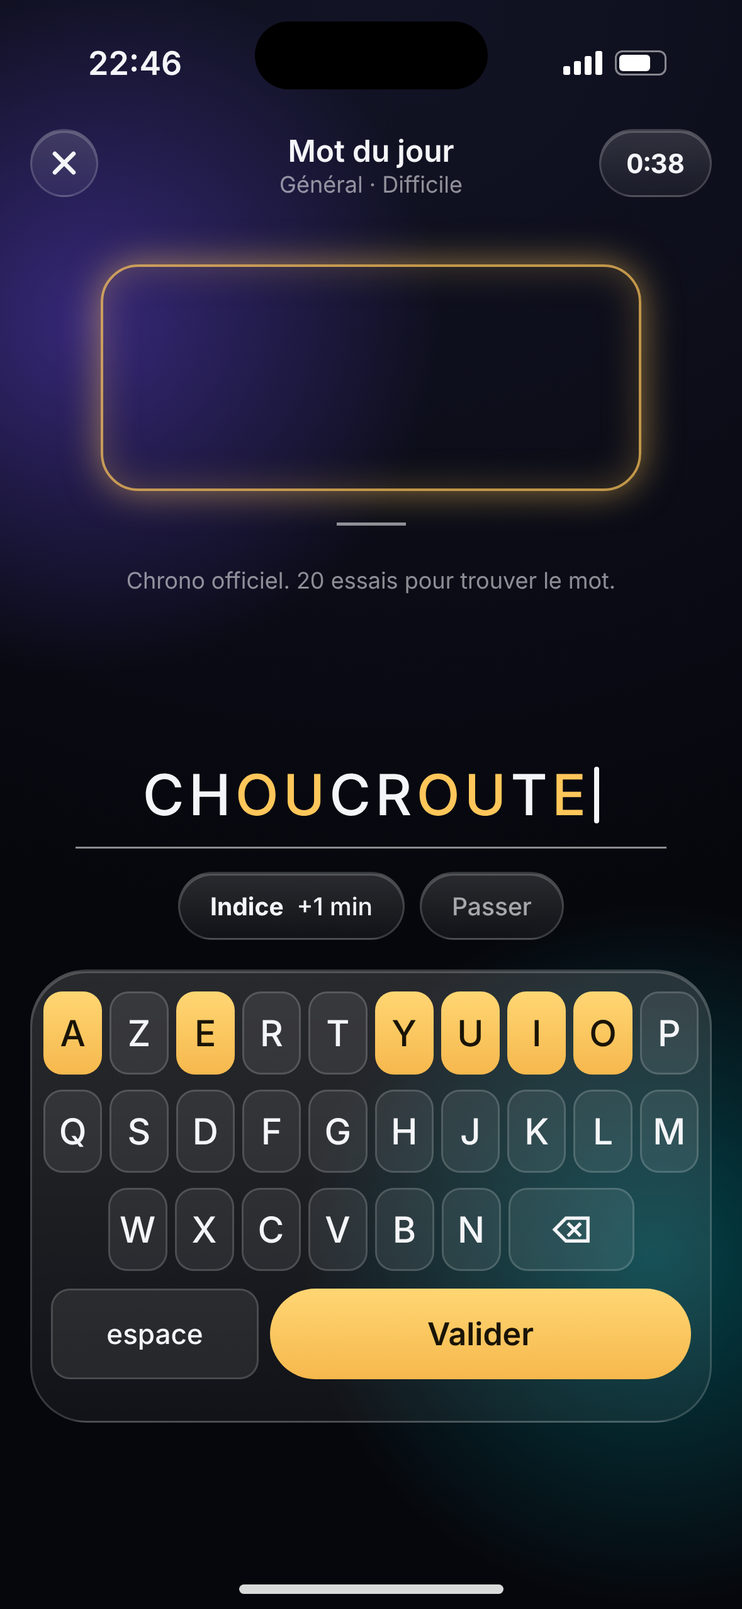
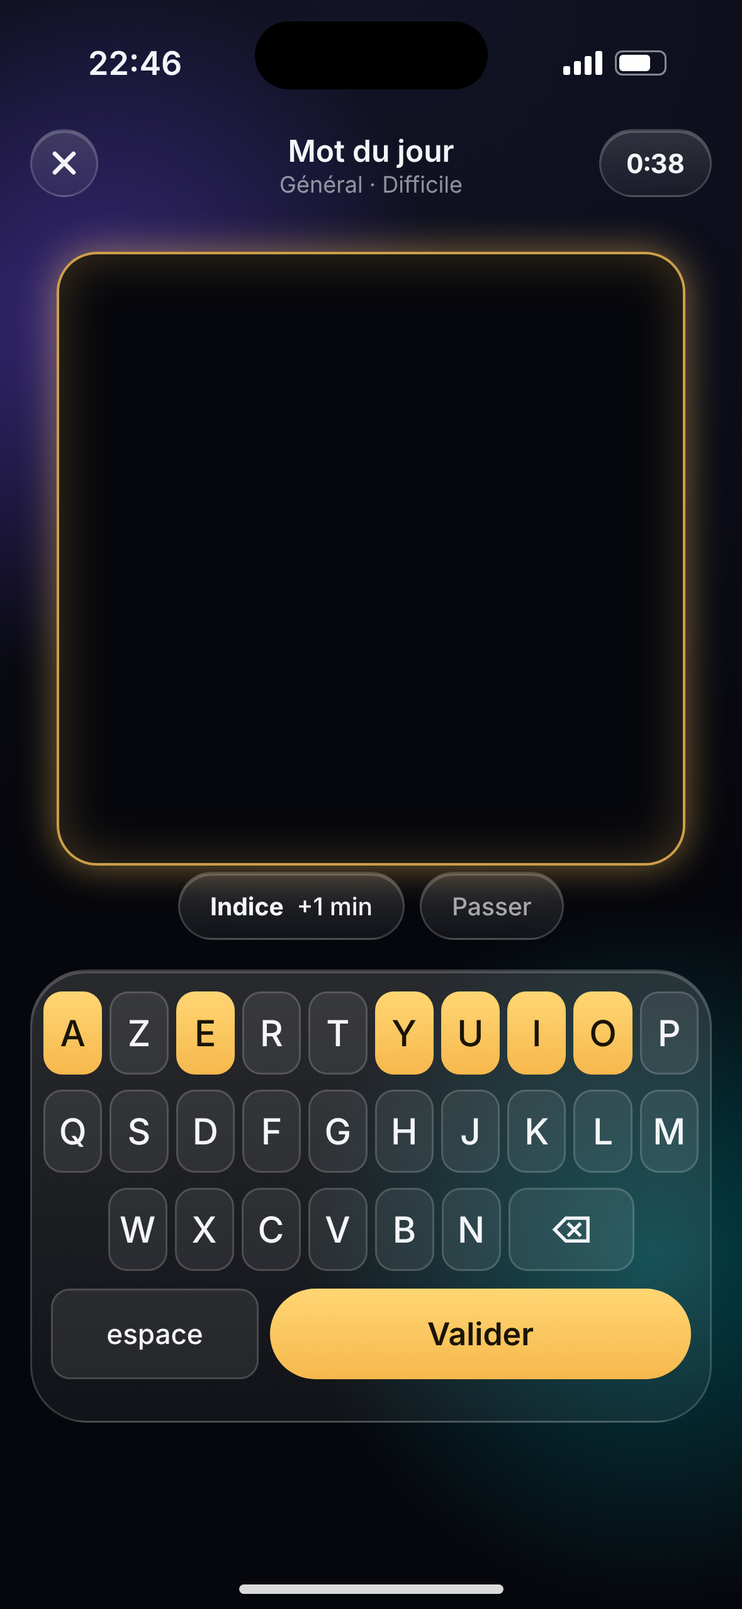
CNSNN promo v3: neon loop peels the word card off the screen
The thin neon goes round the word and the typed answer; when it closes
that region becomes the card and the answer's vowels rise into CHCRT.
The phone stands straight on the table at the end, and the end card
reads "Télécharger dans l'App Store".

Claude-Session: https://claude.ai/code/session_01BuuGTWXm9AdYd59K8Jkeg5

Changed region(s): [[0.0305, 0.1236, 0.9466, 0.5563]]

diff --git a/promo-3d/src/Promo.tsx b/promo-3d/src/Promo.tsx
@@ -29,9 +29,10 @@ const T = (s: number) => s * FPS;                            // seconds -> frame
 
 // ----------------------------------- timeline (seconds) -----------------------------------
 const WORD = 'CHOUCROUTE';
-const TYPE0 = 4.0, TSTEP = 0.2, VALID = 6.05;               // typing in the app
-const LIFT = 6.3, VOWELS = 7.3, FLIP = 9.0, BACKDOWN = 10.3, RESULT = 10.75;
-const SLOTS = 1.35, PATH = 2.15, ANSWER = 3.35;             // missing-vowel slots, neon to the answer field
+const TYPE0 = 2.55, TSTEP = 0.19, VALID = 4.55;             // typing in the app
+const LIFT = 6.0, VOWELS = 7.25, FLIP = 9.0, BACKDOWN = 10.3, RESULT = 10.75;
+const SLOTS = 1.25;                                          // gold slots where the vowels are missing
+const LOOP = 4.8, LOOPED = 5.95;                            // neon traces around the word + answer, then it pops out
 const MODES = 11.1, BOARD = 15.0, END = 17.0;
 export const DURATION = T(21.5);
 export { END };
@@ -41,37 +42,40 @@ function screenTexture(t: number) {
   if (t >= RESULT) return 'game_result.png';
   if (t >= LIFT) return 'game_lifted.png';
   if (t >= VALID - 0.05) return t < VALID + 0.2 ? 'game_valid.png' : 'game_10.png';
-  if (t < TYPE0) return t >= ANSWER ? 'game_answer.png' : 'game_00.png';
+  if (t < TYPE0) return 'game_00.png';
   const n = WORD.split('').filter((_, i) => t >= TYPE0 + i * TSTEP).length;
   return `game_${String(n).padStart(2, '0')}.png`;
 }
 /** The gold slots screen fades over the game screen, then away once the neon reaches the answer field. */
-const slotsMix = (t: number) => ease(prog(t, SLOTS, SLOTS + 0.35)) * (1 - ease(prog(t, ANSWER - 0.1, ANSWER + 0.3)));
+const slotsMix = (t: number) => ease(prog(t, SLOTS, SLOTS + 0.35)) * (1 - ease(prog(t, TYPE0 - 0.3, TYPE0 - 0.05)));
 
 // ----------------------------------- glyph metrics -----------------------------------
 // Letter advances of Instrument Serif, measured in the page once the font is loaded (fraction of font size).
 const ADV: Record<string, number> = {};
+const ADV_INTER: Record<string, number> = {};
 let advReady = false;
 function useAdvances() {
   const [, set] = useState(0);
   useLayoutEffect(() => {
     if (advReady) return;
     const done = hold('advances');
-    const face = new FontFace('IS', `url(${staticFile('fonts/InstrumentSerif-Regular.ttf')})`);
-    face.load().then((f) => {
-      (document.fonts as any).add(f);
+    const faces = [new FontFace('IS', `url(${staticFile('fonts/InstrumentSerif-Regular.ttf')})`), new FontFace('IM', `url(${staticFile('fonts/Inter-Medium.woff')})`)];
+    Promise.all(faces.map((f) => f.load())).then((loaded) => {
+      loaded.forEach((f) => (document.fonts as any).add(f));
       const ctx = document.createElement('canvas').getContext('2d')!;
       ctx.font = '100px IS';
       for (const c of 'ABCDEFGHIJKLMNOPQRSTUVWXYZ') ADV[c] = ctx.measureText(c).width / 100;
+      ctx.font = '100px IM';
+      for (const c of 'ABCDEFGHIJKLMNOPQRSTUVWXYZ') ADV_INTER[c] = ctx.measureText(c).width / 100;
       advReady = true; set(1); done();
     });
   }, []);
 }
 /** x of each letter's centre: vowels take p (0..1) of their width, so consonants close up when vowels are out. */
-function layout(word: string, size: number, spacing: number, vowelP: (i: number) => number) {
+function layout(word: string, size: number, spacing: number, vowelP: (i: number) => number, adv: Record<string, number> = ADV) {
   const isV = (c: string) => 'AEIOUY'.includes(c);
   let vi = 0;
-  const widths = word.split('').map((c) => (ADV[c] ?? 0.6) * size * (isV(c) ? vowelP(vi++) : 1) + spacing * (isV(c) ? vowelP(vi - 1) : 1));
+  const widths = word.split('').map((c) => (adv[c] ?? 0.6) * size * (isV(c) ? vowelP(vi++) : 1) + spacing * (isV(c) ? vowelP(vi - 1) : 1));
   const total = widths.reduce((a, b) => a + b, 0);
   let x = -total / 2;
   return widths.map((w) => { const c = x + w / 2; x += w; return c; });
@@ -157,60 +161,71 @@ const Neon: React.FC<{ curve: THREE.Curve<THREE.Vector3>; p: number; fade?: numb
   );
 };
 
-/** The word card (ShareCard) that comes out of the screen: CHCRT, vowels flying in, flip to the result. */
+/** The word + answer region of the screen peels off as a card: the vowels of the typed answer rise into CHCRT,
+ * then the card flips to the result and goes back into the screen. */
+const CW = (999 / TX) * SW, CH = (975 / TX) * SW;            // the screen region px 90..1089 x 400..1375
+const REGION = sp(589.5, 887.5);
 const WordCard: React.FC<{ t: number }> = ({ t }) => {
-  const CW = 0.64, CH = 0.48;
   const front = tex('card_front.png'), back = tex('card_back.png');
-  const face = useMemo(() => roundedPlane(CW, CH, 0.048), []);
+  const face = useMemo(() => roundedPlane(CW, CH, 0.034), []);
   const slab = useMemo(() => {
-    const g = new THREE.ExtrudeGeometry(roundedRectShape(CW, CH, 0.048), { depth: 0.016, bevelEnabled: false, curveSegments: 24 });
-    g.translate(0, 0, -0.008); return g;
+    const g = new THREE.ExtrudeGeometry(roundedRectShape(CW, CH, 0.034), { depth: 0.012, bevelEnabled: false, curveSegments: 24 });
+    g.translate(0, 0, -0.006); return g;
   }, []);
-  const edge = useMemo(() => roundedRectCurve(CW - 0.006, CH - 0.006, 0.045, 0.0095), []);
-  // Out of the screen and back
+  const edge = useMemo(() => roundedRectCurve(CW - 0.004, CH - 0.004, 0.032, 0.0072), []);
   const up = ease(prog(t, LIFT, LIFT + 1.0)), down = io(prog(t, BACKDOWN, RESULT));
   const k = up * (1 - down);
-  const start = sp(590, 600, 0.004);
-  const pos = start.clone().lerp(new THREE.Vector3(0, 0.5, -0.12), k);
-  pos.y += Math.sin(t * 2.1) * 0.012 * k;                                  // gentle float
+  const pos = REGION.clone().setY(TOP + 0.0035).lerp(new THREE.Vector3(0, 0.5, -0.12), k);
+  pos.y += Math.sin(t * 2.1) * 0.01 * k;
   const flip = io(prog(t, FLIP, FLIP + 0.55)) * Math.PI * (1 - io(prog(t, BACKDOWN, BACKDOWN + 0.35)));
-  const rotX = lerp(-Math.PI / 2, -0.12, k), rotY = flip + Math.sin(t * 1.3) * 0.05 * k;
-  const scale = lerp(0.75, 1, k);
+  const rotX = lerp(-Math.PI / 2, -0.1, k), rotY = flip + Math.sin(t * 1.3) * 0.04 * k;
   const visible = t >= LIFT && t < RESULT + 0.02;
-  // Letters: consonants close up until the vowels arrive one by one
-  const vp = (i: number) => spring(t - (VOWELS + i * 0.26), 0.42, 0.62);
-  const size = 0.092, spacing = 0.004;
-  const xs = layout(WORD, size, spacing, vp);
-  const glowPulse = ease(prog(t, VOWELS + 1.35, VOWELS + 1.6)) * (1 - prog(t, VOWELS + 1.6, FLIP));
+  // Local positions mirror the screen: word centre at 20.7% of the region, answer at 88.7% (local y = (0.5 - rel) * CH)
+  const vp = (i: number) => spring(t - (VOWELS + i * 0.26), 0.45, 0.66);
+  const all = clamp((t - VOWELS) / (4 * 0.26 + 0.5));
+  const wordSize = lerp(0.152, 0.083, ease(all)), wordY = lerp((0.5 - 0.207) * CH, 0.11, ease(all));
+  const xs = layout(WORD, wordSize, 0.003, vp);
+  const ansSize = 0.051, ansY = (0.5 - 0.887) * CH;
+  const xa = layout(WORD, ansSize, 0.007, () => 1, ADV_INTER);
+  const glowPulse = ease(prog(t, VOWELS + 1.4, VOWELS + 1.65)) * (1 - prog(t, VOWELS + 1.65, FLIP));
   let vi = 0;
   return (
-    <group position={pos} rotation={[rotX, rotY, 0]} scale={scale} visible={visible}>
+    <group position={pos} rotation={[rotX, rotY, 0]} visible={visible}>
       <mesh geometry={slab} castShadow><meshPhysicalMaterial color="#0a0b12" roughness={0.35} clearcoat={0.6} /></mesh>
-      <mesh geometry={face} position-z={0.0085}><meshBasicMaterial map={front} toneMapped={false} transparent /></mesh>
-      <mesh geometry={face} position-z={-0.0085} rotation-y={Math.PI}><meshBasicMaterial map={back} toneMapped={false} transparent /></mesh>
-      <Neon curve={edge} p={1} fade={0.3 + 0.7 * up + glowPulse} radius={0.0016} light={0.2} power={2.2} />
+      <mesh geometry={face} position-z={0.0062}><meshBasicMaterial map={front} toneMapped={false} transparent /></mesh>
+      <mesh geometry={face} position-z={-0.0062} rotation-y={Math.PI}><meshBasicMaterial map={back} toneMapped={false} transparent /></mesh>
+      <Neon curve={edge} p={1} fade={0.25 + 0.75 * up + glowPulse} radius={0.0013} light={0.15} power={2.0} />
+      {/* answer row: consonants fade as the vowels leave it */}
+      {WORD.split('').map((c, i) => 'AEIOUY'.includes(c) ? null : (
+        <SyncText key={'a' + i} font={staticFile('fonts/Inter-Medium.woff')} fontSize={ansSize} anchorX="center" anchorY="middle"
+          position={[xa[i], ansY, 0.0075]} fillOpacity={1 - ease(all)}>
+          {c}
+          <meshBasicMaterial color={new THREE.Color(0.96, 0.96, 0.98)} toneMapped={false} transparent opacity={1 - ease(all)} />
+        </SyncText>
+      ))}
+      {/* small burst where each vowel lands */}
       {WORD.split('').map((c, i) => {
         if (!'AEIOUY'.includes(c)) return null;
         const j = WORD.slice(0, i).split('').filter((x) => 'AEIOUY'.includes(x)).length;
-        const land = VOWELS + j * 0.26 + 0.24, r = prog(t, land, land + 0.32);
+        const land = VOWELS + j * 0.26 + 0.3, r = prog(t, land, land + 0.32);
         return (
-          <mesh key={'spark' + i} position={[xs[i], 0, 0.013]} visible={r > 0 && r < 1} scale={0.01 + 0.03 * ease(r)}>
+          <mesh key={'spark' + i} position={[xs[i], wordY, 0.008]} visible={r > 0 && r < 1} scale={0.01 + 0.028 * ease(r)}>
             <ringGeometry args={[0.86, 1, 48]} />
             <meshBasicMaterial color={GOLD_TEXT.clone().multiplyScalar(1.6 * (1 - r))} toneMapped={false} transparent opacity={1 - r} depthWrite={false} />
           </mesh>
         );
       })}
+      {/* the word: consonants stay, vowels travel up from the answer row into their slots */}
       {WORD.split('').map((c, i) => {
         const vowel = 'AEIOUY'.includes(c);
         const p = vowel ? vp(vi++) : 1;
-        // a vowel flies in from below-front along an arc, then settles into its slot
-        const from = new THREE.Vector3(xs[i] * 0.4 + (i % 2 ? 0.25 : -0.25), -0.55, 0.35);
-        const at = new THREE.Vector3(xs[i], 0.0, 0.012);
         const q = clamp(p);
-        const fly = vowel ? from.clone().lerp(at, ease(q)).add(new THREE.Vector3(0, Math.sin(q * Math.PI) * 0.12, 0)) : at;
+        const from = new THREE.Vector3(xa[i], ansY, 0.0075), at = new THREE.Vector3(xs[i], wordY, 0.0075);
+        const fly = vowel ? from.clone().lerp(at, ease(q)).add(new THREE.Vector3(0, 0, Math.sin(q * Math.PI) * 0.05)) : at;
+        const sizeScale = vowel ? lerp(ansSize / wordSize, 1, ease(q)) : 1;
         return (
-          <SyncText key={i} font={staticFile('fonts/InstrumentSerif-Regular.ttf')} fontSize={size} anchorX="center" anchorY="middle"
-            position={fly} scale={vowel ? lerp(0.4, 1, q) : 1} visible={!vowel || t >= VOWELS + (vi - 1) * 0.26 - 0.05}>
+          <SyncText key={i} font={staticFile(vowel && q < 0.5 ? 'fonts/Inter-Medium.woff' : 'fonts/InstrumentSerif-Regular.ttf')} fontSize={wordSize} anchorX="center" anchorY="middle"
+            position={fly} scale={sizeScale}>
             {c}
             <meshBasicMaterial color={vowel ? GOLD_TEXT.clone().multiplyScalar(1.0 + 0.35 * glowPulse) : new THREE.Color(0.97, 0.97, 0.99)} toneMapped={false} />
           </SyncText>
@@ -228,8 +243,8 @@ const ModeCard: React.FC<{ t: number; t0: number; name: string; spot: THREE.Vect
   const edge = useMemo(() => roundedRectCurve(0.454, 0.569, 0.045, 0.0085), []);
   const k = ease(prog(t, t0, t0 + 0.8));
   const away = io(prog(t, BOARD - 0.5, BOARD + 0.1));
-  const pos = sp(590, 1300, 0.004).lerp(spot, k).add(new THREE.Vector3(0, away * 1.6, 0));
-  pos.z += 0;
+  const from = sp(590 + (spot.x / SW) * TX * 0.75, 1500, 0.004);
+  const pos = from.lerp(spot, k).add(new THREE.Vector3(0, away * 1.6, 0));
   pos.y += Math.sin(t * 2 + t0) * 0.01 * k;
   return (
     <group position={pos} rotation={[lerp(-Math.PI / 2, -0.08, k), turn * k, 0]} scale={lerp(0.5, 1, k)} visible={t >= t0 && away < 1}>
@@ -251,7 +266,7 @@ const Logo: React.FC<{ t: number }> = ({ t }) => {
   const tag = ease(prog(t, END + 2.5, END + 2.9));
   let vi = 0;
   return (
-    <group position={[0, 2.22, -0.62]} visible={t >= END + 0.85}>
+    <group position={[0, 1.94, -0.45]} visible={t >= END + 0.85}>
       {word.split('').map((c, i) => {
         const vowel = 'AEIOU'.includes(c); const p = vowel ? vp(vi++) : 1;
         const shown = vowel ? clamp(p) : clamp((sweep - (xs[i] + 0.9) / 1.8) * 6 + 0.5);
@@ -264,7 +279,7 @@ const Logo: React.FC<{ t: number }> = ({ t }) => {
         );
       })}
       <Neon curve={base} p={sweep} fade={1 - 0.8 * prog(t, END + 1.6, END + 2.3)} radius={0.0045} power={3} light={0.4} />
-      <SyncText font={staticFile('fonts/InstrumentSerif-Italic.ttf')} fontSize={0.09} anchorX="center" anchorY="middle" position={[0, -0.26, 0]} fillOpacity={tag}>
+      <SyncText font={staticFile('fonts/InstrumentSerif-Italic.ttf')} fontSize={0.09} anchorX="center" anchorY="middle" position={[0, -0.22, 0]} fillOpacity={tag}>
         Le mot du jour. Sans ses voyelles.
         <meshBasicMaterial color={new THREE.Color(0.95, 0.95, 0.97)} toneMapped={false} transparent opacity={tag} />
       </SyncText>
@@ -321,13 +336,14 @@ const Contact: React.FC<{ opacity: number }> = ({ opacity }) => {
 // Each key: [seconds, camera position, look-at]. Positions are in world space (phone at the origin).
 const CAM: [number, number[], number[], CurveName?][] = [
   [0.0, [-0.5, 1.0, 0.9], [-0.03, 0.08, -0.42]],
-  [1.2, [-0.12, 0.78, 0.62], [0.0, 0.08, -0.42], 'snap'],          // push in on CHCRT
-  [1.7, [0.0, 1.32, 0.55], [0.0, 0.08, -0.4], 'snap'],              // rise to see the gold slots
-  [2.4, [0.04, 1.25, 0.6], [0.0, 0.08, -0.36], 'glide'],
-  [3.5, [0.2, 0.62, 0.82], [0.0, 0.08, -0.05], 'snap'],            // follow the neon down to the answer
-  [4.4, [-0.12, 0.4, 0.98], [0.0, 0.08, 0.26], 'snap'],            // drop to the keyboard
-  [6.1, [0.1, 0.44, 0.98], [0.0, 0.08, 0.12], 'glide'],
-  [6.9, [0.5, 0.8, 2.05], [0.0, 0.5, -0.12], 'snap'],              // pull back as the card rises
+  [1.1, [-0.12, 0.78, 0.62], [0.0, 0.08, -0.42], 'snap'],          // push in on CHCRT
+  [1.6, [0.0, 1.32, 0.55], [0.0, 0.08, -0.4], 'snap'],              // rise: the gold slots light up
+  [2.3, [0.04, 1.25, 0.6], [0.0, 0.08, -0.36], 'glide'],
+  [2.85, [-0.12, 0.42, 0.98], [0.0, 0.08, 0.2], 'snap'],            // drop to the keyboard, typing
+  [4.5, [0.1, 0.46, 0.98], [0.0, 0.08, 0.1], 'glide'],
+  [5.0, [0.04, 1.85, 0.55], [0.0, 0.08, -0.2], 'snap'],             // top view: the neon goes round word + answer
+  [5.9, [0.0, 1.8, 0.62], [0.0, 0.08, -0.21], 'glide'],
+  [6.9, [0.5, 0.8, 2.05], [0.0, 0.5, -0.12], 'soft'],              // pull back as the card rises
   [8.8, [0.16, 0.66, 1.95], [0.0, 0.5, -0.12], 'glide'],
   [9.6, [0.05, 0.6, 1.62], [0.0, 0.5, -0.12], 'snap'],             // push in on the flip
   [10.3, [0.03, 0.72, 1.8], [0.0, 0.4, -0.15], 'soft'],
@@ -337,15 +353,15 @@ const CAM: [number, number[], number[], CurveName?][] = [
   [14.3, [0.62, 0.8, 1.75], [0.5, 0.48, -0.25], 'snap'],
   [15.3, [0.05, 1.25, 0.85], [0.0, 0.09, -0.25], 'snap'],
   [16.8, [0.1, 0.9, 0.6], [0.0, 0.09, -0.33], 'glide'],
-  [17.7, [0.0, 1.05, 5.6], [0.0, 0.82, -0.5], 'snap'],
-  [21.5, [0.0, 1.0, 5.25], [0.0, 0.8, -0.5], 'glide'],
+  [17.7, [0.0, 0.62, 5.7], [0.0, 0.44, -0.25], 'snap'],
+  [21.5, [0.0, 0.6, 5.4], [0.0, 0.44, -0.25], 'glide'],
 ];
 // Focus point for the depth of field
 const FOCUS: [number, number[]][] = [
-  [0.0, [0.0, 0.09, -0.41]], [1.7, [0.0, 0.09, -0.4]], [2.4, [0.0, 0.09, -0.36]], [3.5, [0.0, 0.09, -0.05]], [4.4, [0.0, 0.09, 0.3]], [6.1, [0.0, 0.09, 0.05]],
-  [6.5, [0.0, 0.45, -0.12]], [7.0, [0.0, 0.5, -0.12]], [10.3, [0.0, 0.45, -0.14]], [10.8, [0.0, 0.09, 0.1]],
+  [0.0, [0.0, 0.09, -0.41]], [1.6, [0.0, 0.09, -0.4]], [2.3, [0.0, 0.09, -0.36]], [2.85, [0.0, 0.09, 0.28]], [4.5, [0.0, 0.09, 0.1]],
+  [5.0, [0.0, 0.09, -0.2]], [5.9, [0.0, 0.09, -0.21]], [6.6, [0.0, 0.4, -0.14]], [7.0, [0.0, 0.5, -0.12]], [10.3, [0.0, 0.45, -0.14]], [10.8, [0.0, 0.09, 0.1]],
   [11.8, [-0.56, 0.48, -0.25]], [13.0, [0.0, 0.48, -0.28]], [14.3, [0.5, 0.48, -0.25]],
-  [15.3, [0.0, 0.09, -0.25]], [16.8, [0.0, 0.09, -0.33]], [17.7, [0.0, 1.0, -0.45]], [21.5, [0.0, 1.05, -0.5]],
+  [15.3, [0.0, 0.09, -0.25]], [16.8, [0.0, 0.09, -0.33]], [17.7, [0.0, 0.85, -0.25]], [21.5, [0.0, 0.85, -0.25]],
 ];
 
 const Rig: React.FC<{ t: number }> = ({ t }) => {
@@ -376,11 +392,12 @@ const Scene: React.FC = () => {
   useAdvances();
   useRoomEnvironment();
   // Neon paths
-  // From the gold slots (where the vowels are missing), down to the answer field, then along its line
-  const underline = useMemo(() => new THREE.CatmullRomCurve3([
-    sp(330, 700, 0.005), sp(530, 708, 0.005), sp(760, 700, 0.005), sp(945, 696, 0.005),
-    sp(1080, 860, 0.008), sp(1040, 1180, 0.008), sp(1050, 1352, 0.005), sp(590, 1356, 0.005), sp(130, 1352, 0.005),
-  ], false, 'centripetal'), []);
+  // A thin loop around the word + answer region (the card about to pop out), starting top-left
+  const regionLoop = useMemo(() => {
+    const c = roundedRectCurve(CW + 0.016, CH + 0.016, 0.04, 0);
+    const pts = c.getSpacedPoints(200).map((v) => new THREE.Vector3(REGION.x + v.x, TOP + 0.005, REGION.z - v.y));
+    return new THREE.CatmullRomCurve3(pts, true);
+  }, []);
   const boardLoop = useMemo(() => {
     const c = roundedRectCurve(0.62, 0.105, 0.05, 0);
     const pts = c.getSpacedPoints(160).map((v) => new THREE.Vector3(v.x, TOP + 0.006, -v.y + sp(0, 700).z));
@@ -388,8 +405,9 @@ const Scene: React.FC = () => {
   }, []);
   // Phone stands up at the end, pivoting on its bottom edge
   const stand = io(prog(t, END, END + 0.9));
-  const phonePos = new THREE.Vector3(0, lerp(0, PH / 2 - 0.05, stand), lerp(0, -0.2, stand));
-  const phoneRot = lerp(0, Math.PI / 2 - 0.12, stand);
+  // pivot so the bottom edge stays on the table: centre rises to half the height, never below the surface
+  const phoneRot = lerp(0, Math.PI / 2, stand);
+  const phonePos = new THREE.Vector3(0, (PH / 2) * Math.sin(phoneRot) + (PD / 2) * Math.cos(phoneRot) * 0 + 0.002, lerp(0, -0.2, stand) + (PH / 2) * (1 - Math.cos(phoneRot)) * 0);
   const focus = track(FOCUS, t, ioSoft);
   const bokeh = trackN([[0, 2.6], [6.2, 2.4], [7, 3.2], [10.5, 2.6], [15, 2.4], [17.0, 2], [17.7, 1.0], [21.5, 1.0]], t);
   const flash = Math.exp(-Math.pow((t - (VOWELS + 1.45)) / 0.18, 2));
@@ -404,9 +422,18 @@ const Scene: React.FC = () => {
       <Backdrop />
       <Table />
       <Contact opacity={1 - stand} />
+      {/* contact shadow under the standing phone */}
+      <mesh rotation-x={-Math.PI / 2} position={[0, 0.0012, -0.2]} visible={stand > 0.6}>
+        <planeGeometry args={[PW * 1.5, 0.22]} />
+        <meshBasicMaterial transparent opacity={0.55 * prog(stand, 0.6, 1)} depthWrite={false} color="#000" alphaMap={useMemo(() => {
+          const c = document.createElement('canvas'); c.width = 256; c.height = 64; const g = c.getContext('2d')!;
+          const rg = g.createRadialGradient(128, 32, 4, 128, 32, 120); rg.addColorStop(0, '#fff'); rg.addColorStop(1, '#000');
+          g.fillStyle = rg; g.fillRect(0, 0, 256, 64); return new THREE.CanvasTexture(c);
+        }, [])} />
+      </mesh>
       <group position={phonePos} rotation-x={phoneRot}>
         <Phone screen={screenTexture(t)} glow={1.0 + 0.25 * flash} over="game_slots.png" mix={slotsMix(t)} />
-        <Neon curve={underline} p={io(prog(t, PATH, ANSWER + 0.15))} fade={1 - prog(t, ANSWER + 0.35, ANSWER + 0.9)} radius={0.0045} power={3.4} />
+        <Neon curve={regionLoop} p={io(prog(t, LOOP, LOOPED))} fade={(1 + 0.8 * Math.exp(-Math.pow((t - LOOPED) / 0.12, 2))) * (1 - prog(t, LIFT + 0.1, LIFT + 0.5))} radius={0.0022} power={2.2} light={0.25} />
         <Neon curve={boardLoop} p={io(prog(t, 15.5, 16.4))} fade={1 - prog(t, 16.9, 17.2)} radius={0.0022} power={2.0} light={0.2} />
       </group>
       <WordCard t={t} />

diff --git a/promo-3d/assets-src/screens.html b/promo-3d/assets-src/screens.html
@@ -37,7 +37,7 @@ body { font-family: "Inter", "Noto Color Emoji", sans-serif; color: var(--fg); -
 #gtitle { left: 0; right: 0; top: 210px; text-align: center; } #gtitle b { display: block; font-size: 48px; font-weight: 600; } #gtitle span { display: block; font-size: 36px; color: var(--fg3); margin-top: 2px; }
 #gchrono { right: 48px; top: 205px; height: 108px; padding: 0 40px; font-size: 42px; font-weight: 700; font-variant-numeric: tabular-nums; }
 #gcons { left: 0; right: 0; top: 470px; text-align: center; font-size: 264px; line-height: 1; letter-spacing: 9px; }
-#gslot { left: 160px; right: 160px; top: 420px; height: 360px; border-radius: 60px; border: 4px solid rgba(255,198,90,.75); box-shadow: 0 0 60px rgba(255,198,90,.55), inset 0 0 60px rgba(255,198,90,.25); }
+#gslot { left: 90px; width: 999px; top: 400px; height: 975px; border-radius: 64px; background: #07080d; border: 4px solid rgba(255,198,90,.8); box-shadow: 0 0 60px rgba(255,198,90,.5), inset 0 0 80px rgba(255,198,90,.22); z-index: 2; }
 #gdiv { left: 535px; width: 110px; height: 5px; top: 830px; background: var(--fg3); }
 #gnotice { left: 0; right: 0; top: 900px; text-align: center; font-size: 36px; color: var(--fg3); }
 #gans { left: 120px; right: 120px; top: 1180px; height: 168px; border-bottom: 3px solid var(--fg3); display: flex; align-items: center; justify-content: center; }
@@ -84,7 +84,7 @@ body { font-family: "Inter", "Noto Color Emoji", sans-serif; color: var(--fg); -
 #defier { margin: 56px auto 0; width: 640px; height: 150px; font-size: 50px; font-weight: 700; }
 
 /* Floating cards (3D): ShareCard front/back and mode cards, 900 x 1125 */
-.wcard { position: relative; width: 1200px; height: 900px; border-radius: 90px; overflow: hidden; padding: 80px 90px; display: flex; flex-direction: column; align-items: center; background: linear-gradient(#141729, #07080e); }
+.wcard { position: relative; width: 1200px; height: 1171px; border-radius: 76px; overflow: hidden; padding: 80px 90px; display: flex; flex-direction: column; align-items: center; background: linear-gradient(#141729, #07080e); }
 .card { position: relative; width: 900px; height: 1125px; border-radius: 96px; overflow: hidden; padding: 110px 90px; display: flex; flex-direction: column; align-items: center;
   background: linear-gradient(#141729, #07080e); }
 .card .mark { font-size: 96px; }
@@ -140,10 +140,14 @@ function board() {
     <div id="defier" class="pill gold-fill">Défier un ami</div></div>${statusBar('22:47')}</div>`;
 }
 // The ShareCard (HomeView.swift) as a physical card; its consonants and vowels are 3D text in the scene.
-const cardFront = () => `<div class="wcard card-like"><div class="mark" style="font-size:84px">C<span class="v">O</span>NS<span class="v">O</span>NN<span class="v">E</span></div>
-  <div style="font-size:34px;font-weight:700;letter-spacing:5px;color:var(--fg2);margin-top:20px">MOT DU JOUR · 2026-10-18</div><div style="flex:1"></div>
-  <div style="width:110px;height:9px;border-radius:5px;background:var(--gold)"></div><div class="italic" style="font-size:58px;color:var(--gold);margin-top:44px">Trouverez-vous les voyelles ?</div></div>`;
+// Word card = the screen region around the word and the answer (px 90..1089 x 400..1375), scaled 1200/999.
+// The word and the typed answer are 3D letters in the scene; the face keeps the divider, the notice and the answer line.
+const cardFront = () => `<div class="wcard" style="padding:0;background:radial-gradient(900px 800px at 0% 0%, rgba(89,62,199,.5), rgba(89,62,199,0) 70%), linear-gradient(#10132a, #07080e)">
+  <div style="position:absolute;left:534px;top:516px;width:132px;height:6px;border-radius:3px;background:rgba(244,245,248,.56)"></div>
+  <div style="position:absolute;left:0;right:0;top:600px;text-align:center;font-size:43px;color:rgba(244,245,248,.56)">Chrono officiel. 20 essais pour trouver le mot.</div>
+  <div style="position:absolute;left:36px;right:36px;top:1136px;height:4px;border-radius:2px;background:rgba(244,245,248,.56)"></div></div>`;
 const cardBack = () => `<div class="wcard" style="justify-content:center">
+  <div class="mark" style="font-size:64px;margin-bottom:60px">C<span class="v">O</span>NS<span class="v">O</span>NN<span class="v">E</span></div>
   <div class="italic" style="font-size:86px;color:var(--mint)">Du premier coup, sans indice.</div>
   <div style="font-size:250px;font-weight:800;letter-spacing:-4px;line-height:1;margin-top:40px">0:38</div>
   <div style="width:300px;height:10px;border-radius:5px;background:var(--gold);margin-top:34px"></div>

diff --git a/promo-3d/src/EndCard.tsx b/promo-3d/src/EndCard.tsx
@@ -19,17 +19,17 @@ export const EndCard: React.FC = () => {
     <div style={{ position: 'absolute', inset: 0, fontFamily: 'Inter, sans-serif', color: '#f4f5f8' }}>
       <div style={{ position: 'absolute', left: 0, right: 0, bottom: 0, height: 760, opacity: scrim,
         background: 'linear-gradient(rgba(8,5,3,0), rgba(8,5,3,.82) 42%, rgba(8,5,3,.92))' }} />
-      <div style={{ position: 'absolute', left: 0, right: 0, top: 1395, display: 'flex', justifyContent: 'center', alignItems: 'center', gap: 34, ...up(a) }}>
+      <div style={{ position: 'absolute', left: 0, right: 0, top: 1290, display: 'flex', justifyContent: 'center', alignItems: 'center', gap: 34, ...up(a) }}>
         <Img src={staticFile('brand/appicon.png')} style={{ width: 190, height: 190, borderRadius: 43, boxShadow: '0 18px 40px rgba(0,0,0,.55), 0 0 0 2px rgba(255,255,255,.12)' }} />
         <div style={{ height: 158, padding: '0 46px 0 34px', borderRadius: 34, background: '#000', border: '3px solid #a6a6a6', display: 'flex', alignItems: 'center', gap: 20 }}>
           <svg width="78" height="78" viewBox="0 0 24 24"><path d={APPLE} fill="#fff" /></svg>
           <div style={{ lineHeight: 1.05 }}>
-            <div style={{ fontSize: 34, fontWeight: 500, letterSpacing: 0.3 }}>Disponible sur</div>
+            <div style={{ fontSize: 34, fontWeight: 500, letterSpacing: 0.3 }}>Télécharger dans</div>
             <div style={{ fontSize: 66, fontWeight: 600, letterSpacing: -1 }}>l’App Store</div>
           </div>
         </div>
       </div>
-      <div style={{ position: 'absolute', left: 0, right: 0, top: 1630, display: 'flex', justifyContent: 'center', alignItems: 'center', gap: 22, ...up(b) }}>
+      <div style={{ position: 'absolute', left: 0, right: 0, top: 1520, display: 'flex', justifyContent: 'center', alignItems: 'center', gap: 22, ...up(b) }}>
         <svg width="62" height="62" viewBox="0 0 24 24">
           <path d={TIKTOK} fill="#25F4EE" transform="translate(-0.7,-0.5)" />
           <path d={TIKTOK} fill="#FE2C55" transform="translate(0.7,0.5)" />
@@ -37,7 +37,7 @@ export const EndCard: React.FC = () => {
         </svg>
         <div style={{ fontSize: 54, fontWeight: 700, letterSpacing: 0.5 }}>@jeuCNSNN</div>
       </div>
-      <div style={{ position: 'absolute', left: 0, right: 0, top: 1735, textAlign: 'center', fontSize: 30, fontWeight: 600, letterSpacing: 6, color: '#ffc65a', opacity: c }}>
+      <div style={{ position: 'absolute', left: 0, right: 0, top: 1625, textAlign: 'center', fontSize: 30, fontWeight: 600, letterSpacing: 6, color: '#ffc65a', opacity: c }}>
         GRATUIT · SANS PUBLICITÉ
       </div>
     </div>

diff --git a/promo-3d/sound/score.py b/promo-3d/sound/score.py
@@ -42,18 +42,17 @@ while t < 17.0:
 for tt in (0.25, 1.25): click(tt, 0.08)
 low_hit(0.0, 0.25)
 # 1.35: the gold slots light up where the vowels are missing; 2.15-3.5 the neon links them and runs to the answer field
-swoosh(1.2, 0.5, 0.05)
-for i in range(5): M.place(bell(88 + [0, 2, 4, 7, 9][i], 0.25, 0.6), 1.38 + i * 0.07, 0.035, (i - 2) * 0.2)
-hum(2.15, 1.4, 90, 260, 0.04)
-for i in range(5): zip_(2.2 + i * 0.13)
-swoosh(2.9, 0.5); M.place(bell(81, 0.5), 3.35, 0.05)
+swoosh(1.15, 0.5, 0.05)
+for i in range(5): M.place(bell(88 + [0, 2, 4, 7, 9][i], 0.25, 0.6), 1.3 + i * 0.07, 0.035, (i - 2) * 0.2)
+swoosh(2.75, 0.4, 0.05)
 # 3.8-6.3: typing CHOUCROUTE, Valider
-for i in range(10): click(4.0 + i * 0.2)
-click(6.05, 0.2); M.place(tone(hz(69), 0.2, ((1, 1),), a=.002, tau=.05), 6.05, 0.06)
-M.place(riser(M, 0.9), 5.4, 0.05)
-# 6.3: the card leaves the screen, vowels fly in, flip, back down
-low_hit(6.3, 0.3); swoosh(6.6, 0.8, 0.07)
-for i, m in enumerate([81, 84, 86, 88, 91]): M.place(bell(m, 0.8), 7.3 + i * 0.26 + 0.3, 0.06, (i - 2) * 0.2)
+for i in range(10): click(2.55 + i * 0.19)
+click(4.55, 0.2); M.place(tone(hz(69), 0.2, ((1, 1),), a=.002, tau=.05), 4.55, 0.06)
+# 4.8-5.95: the thin neon goes round the word and the answer; when it closes, the card pops out
+hum(4.8, 1.2, 140, 330, 0.035); M.place(riser(M, 1.1), 4.9, 0.045)
+M.place(bell(93, 0.4), 5.95, 0.05)
+low_hit(6.0, 0.3); swoosh(6.3, 0.8, 0.07)
+for i, m in enumerate([81, 84, 86, 88, 91]): M.place(bell(m, 0.8), 7.25 + i * 0.26 + 0.3, 0.06, (i - 2) * 0.2)
 for m in [57, 64, 69, 72, 76]: M.place(tone(hz(m), 2.0, ((1, 1), (2, .25), (3, .08)), a=.01, tau=1.0, det=.002), 8.65, 0.04)
 low_hit(8.65, 0.3)
 M.place(smooth(M.noise(int(0.12 * SR)), 3) * env(int(0.12 * SR), .001, .03), 9.0, 0.12)        # flip
